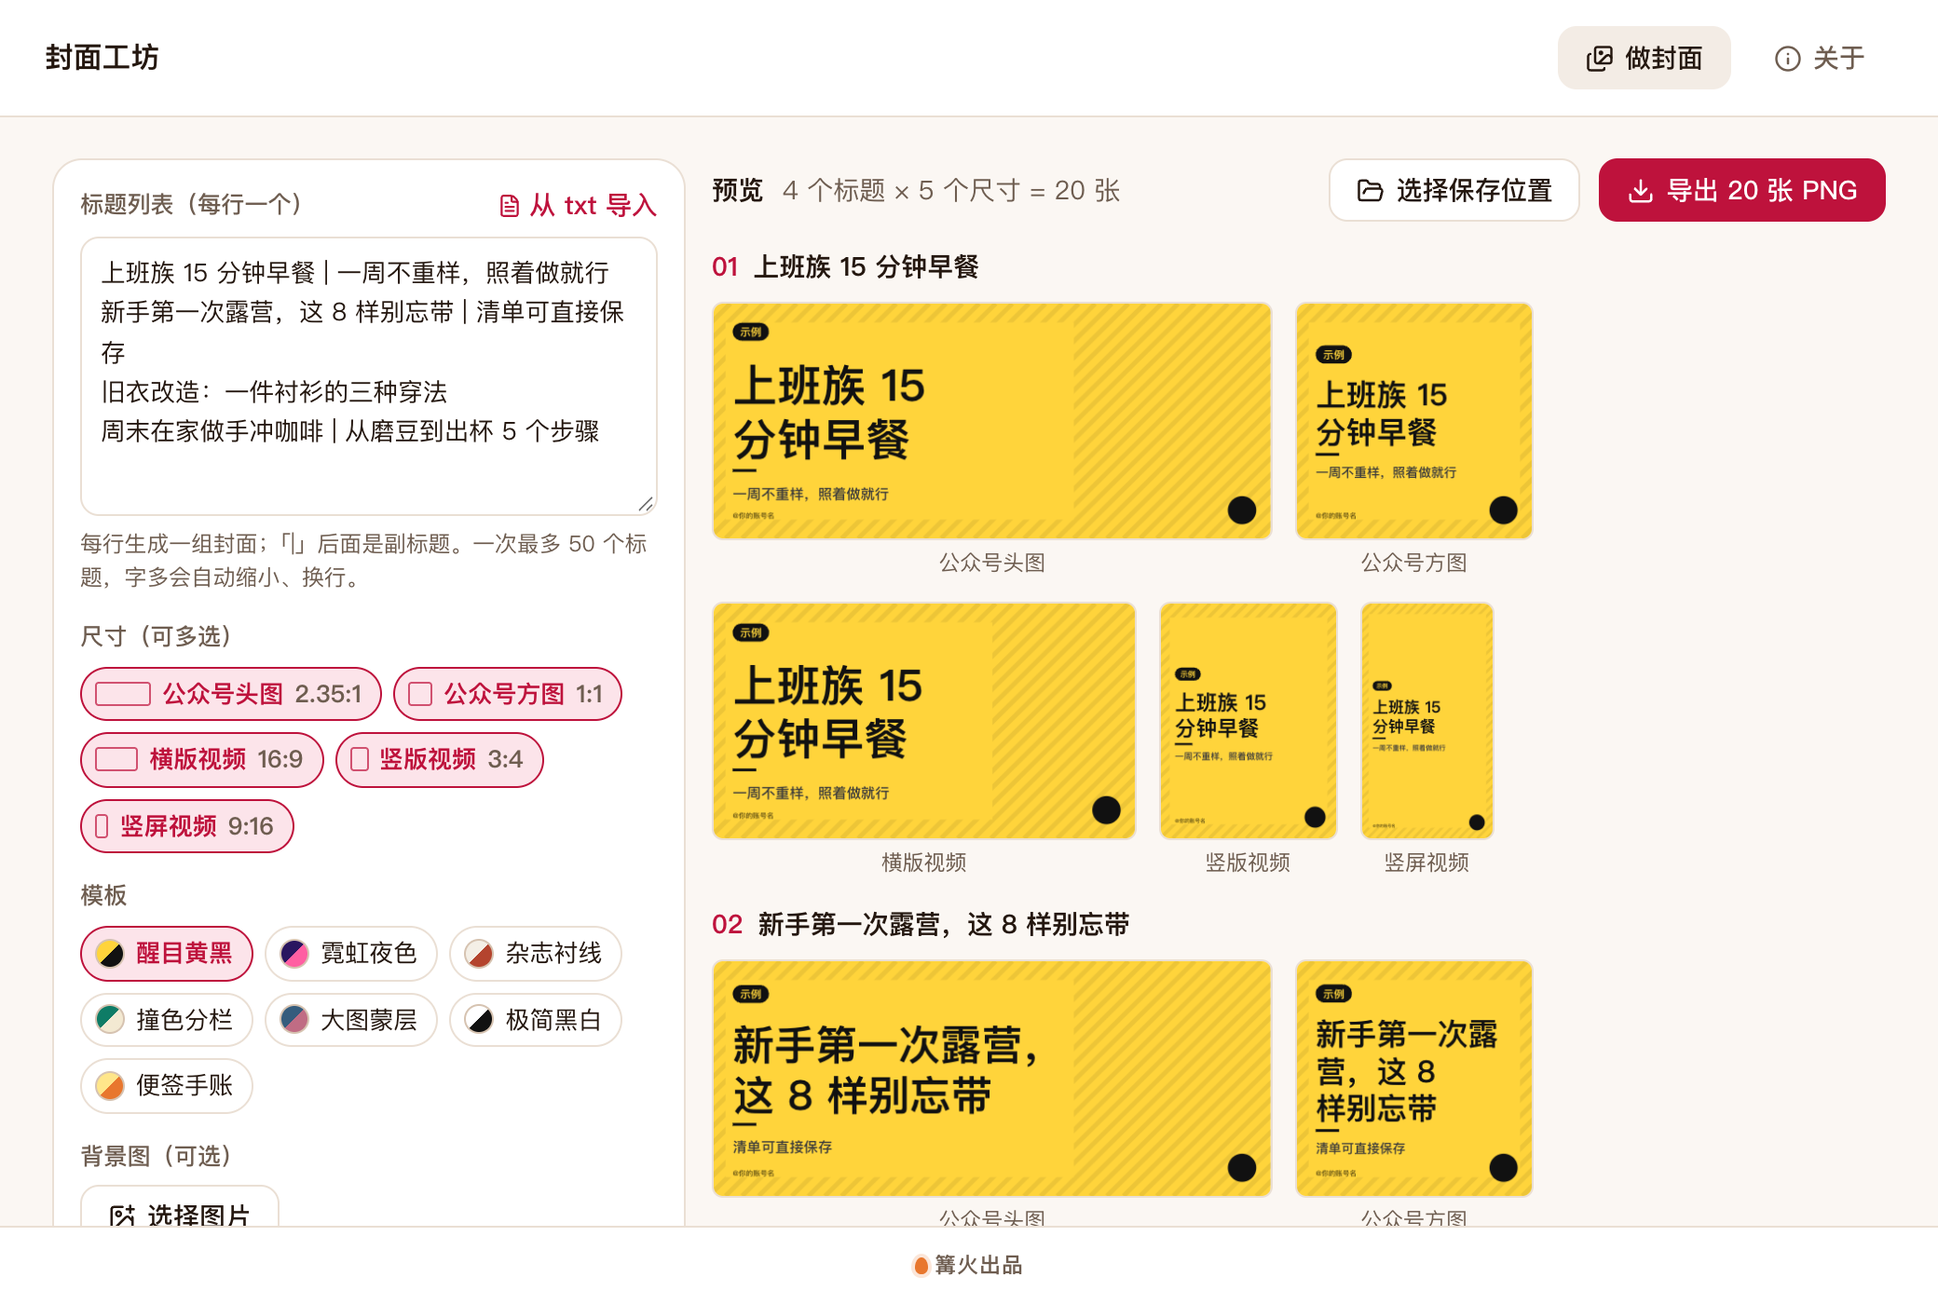
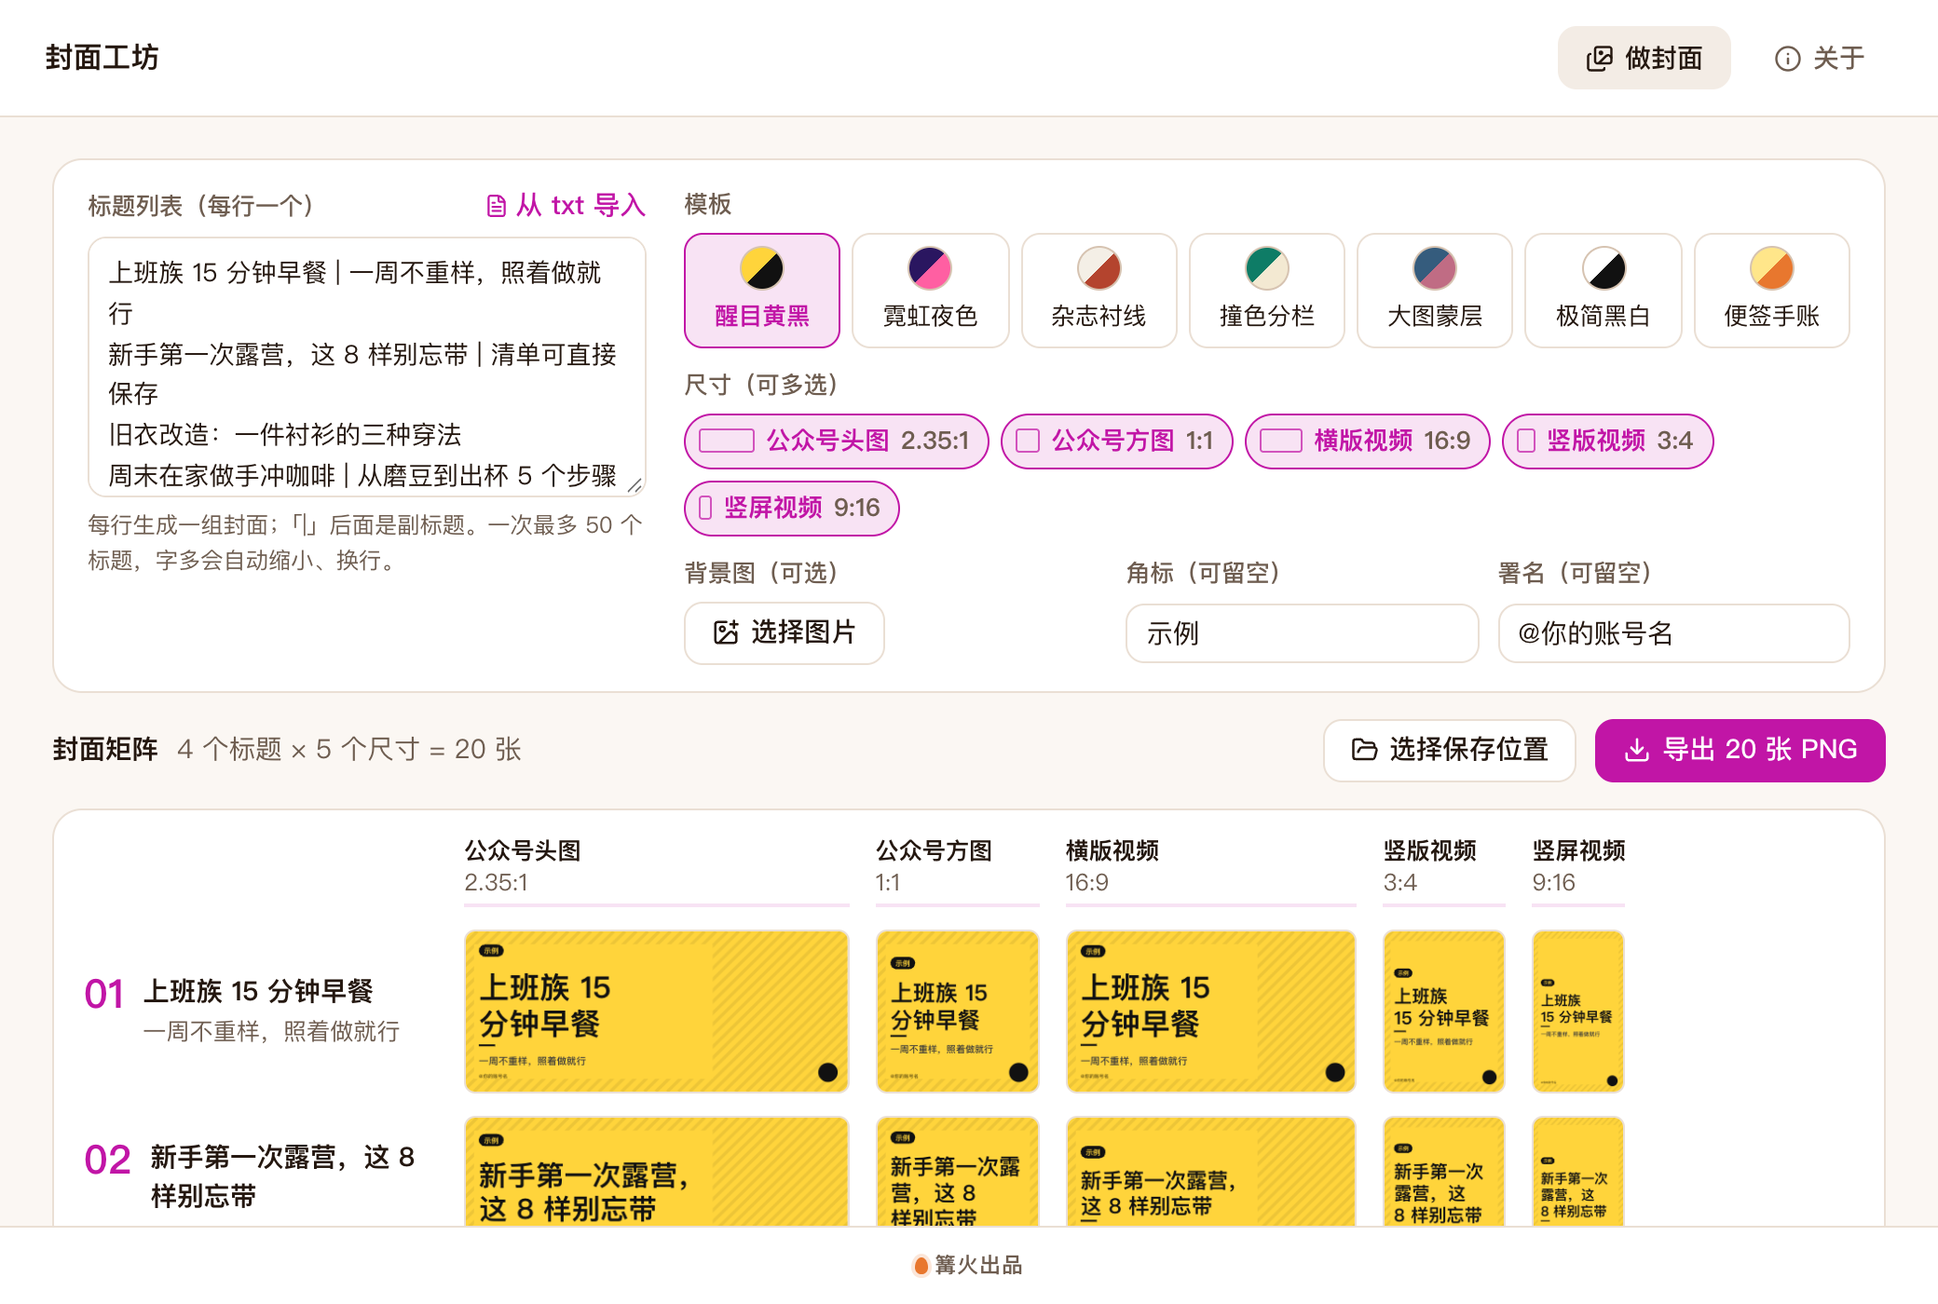
0.2.0：封面矩阵界面，补全 README

diff --git a/src/tool/Main.tsx b/src/tool/Main.tsx
@@ -14,7 +14,7 @@ type Ctx = Parameters<CustomTool['Main']>[0]['ctx'];
 const TOOL_NAME = '封面工坊';
 const DEFAULTS: Prefs = { titles: SAMPLE, sizes: SIZES.map((s) => s.id).join(','), template: TEMPLATES[0].id, tag: SAMPLE_TAG, signature: '@你的账号名', bgPath: '', outDir: '' };
 /** 预览缩略图的高度（像素） */
-const THUMB_H = 128;
+const THUMB_H = 88;
 const fileName = (p: string) => p.split(/[\\/]/).pop() ?? p;
 
 interface CoverProps { text: CoverText; size: SizeSpec; t: Template; tag: string; signature: string; img: Img | null; height: number }
@@ -143,8 +143,8 @@ export function Main({ ctx }: { ctx?: Ctx }) {
   const cur = zoom != null ? flat[zoom] : null;
   return (
     <div className={`cs${hover ? ' cs-hover' : ''}`}>
-      <section className="cs-edit k-panel">
-        <div className="k-field">
+      <section className="cs-top k-panel">
+        <div className="k-field cs-titles">
           <div className="cs-row">
             <label className="k-label" htmlFor="cs-titles">标题列表（每行一个）</label>
             <span className="b-sp" />
@@ -154,53 +154,55 @@ export function Main({ ctx }: { ctx?: Ctx }) {
           <span className="k-help">每行生成一组封面；「|」后面是副标题。一次最多 {MAX_TITLES} 个标题，字多会自动缩小、换行。</span>
           {allTexts.length > MAX_TITLES && <span className="k-help cs-warn">共 {allTexts.length} 行，只处理前 {MAX_TITLES} 个</span>}
         </div>
-        <div className="k-field">
-          <span className="k-label">尺寸（可多选）</span>
-          <div className="cs-chips" role="group" aria-label="尺寸">
-            {SIZES.map((s) => {
-              const on = sizes.some((x) => x.id === s.id);
-              return (
-                <button key={s.id} role="checkbox" aria-checked={on} className={`k-chip${on ? ' on' : ''}`} onClick={() => toggleSize(s.id)}>
-                  <i className="cs-ratio" style={{ aspectRatio: `${s.w} / ${s.h}` }} />{s.name}<span className="k-muted k-num">{s.ratio}</span>
+        <div className="cs-ctrl">
+          <div className="k-field">
+            <span className="k-label">模板</span>
+            <div className="cs-tpls" role="radiogroup" aria-label="模板">
+              {TEMPLATES.map((x) => (
+                <button key={x.id} role="radio" aria-checked={x.id === t.id} className={`cs-tpl${x.id === t.id ? ' on' : ''}`} onClick={() => set({ template: x.id })}>
+                  <i className="cs-sw" style={{ background: `linear-gradient(135deg, ${x.swatch[0]} 50%, ${x.swatch[1]} 50%)` }} />
+                  <span>{x.name}</span>
                 </button>
-              );
-            })}
-          </div>
-        </div>
-        <div className="k-field">
-          <span className="k-label">模板</span>
-          <div className="cs-chips" role="radiogroup" aria-label="模板">
-            {TEMPLATES.map((x) => (
-              <button key={x.id} role="radio" aria-checked={x.id === t.id} className={`k-chip${x.id === t.id ? ' on' : ''}`} onClick={() => set({ template: x.id })}>
-                <i className="cs-sw" style={{ background: `linear-gradient(135deg, ${x.swatch[0]} 50%, ${x.swatch[1]} 50%)` }} />{x.name}
-              </button>
-            ))}
-          </div>
-        </div>
-        <div className="k-field">
-          <span className="k-label">背景图（可选）</span>
-          <div className="cs-row">
-            <button className="k-btn" disabled={!ctx} onClick={async () => { const [p] = await pickFiles(IMAGE_EXTS, '图片').catch(() => []); if (p) set({ bgPath: p }); }}><ImagePlus size={15} />{prefs.bgPath ? '换一张' : '选择图片'}</button>
-            {prefs.bgPath && <span className="k-ellipsis k-muted" title={prefs.bgPath}>{fileName(prefs.bgPath)}</span>}
-            {prefs.bgPath && <button className="k-icon-btn" aria-label="去掉背景图" title="去掉背景图" onClick={() => set({ bgPath: '' })}><Trash2 size={14} /></button>}
-          </div>
-          <span className="k-help">铺满并居中裁剪，模板会自动加色块或蒙层保证文字看得清。也可以直接把图片拖进窗口。</span>
-        </div>
-        <div className="cs-two">
-          <div className="k-field">
-            <label className="k-label" htmlFor="cs-tag">角标（可留空）</label>
-            <input id="cs-tag" className="k-input" value={prefs.tag} maxLength={16} placeholder="例如：第 12 期" onChange={(e) => set({ tag: e.target.value })} />
+              ))}
+            </div>
           </div>
           <div className="k-field">
-            <label className="k-label" htmlFor="cs-sig">署名（可留空）</label>
-            <input id="cs-sig" className="k-input" value={prefs.signature} maxLength={30} onChange={(e) => set({ signature: e.target.value })} />
+            <span className="k-label">尺寸（可多选）</span>
+            <div className="cs-chips" role="group" aria-label="尺寸">
+              {SIZES.map((s) => {
+                const on = sizes.some((x) => x.id === s.id);
+                return (
+                  <button key={s.id} role="checkbox" aria-checked={on} className={`k-chip${on ? ' on' : ''}`} onClick={() => toggleSize(s.id)}>
+                    <i className="cs-ratio" style={{ aspectRatio: `${s.w} / ${s.h}` }} />{s.name}<span className="k-muted k-num">{s.ratio}</span>
+                  </button>
+                );
+              })}
+            </div>
+          </div>
+          <div className="cs-three">
+            <div className="k-field">
+              <span className="k-label">背景图（可选）</span>
+              <div className="cs-row">
+                <button className="k-btn" title="铺满并居中裁剪，模板会自动加色块或蒙层保证文字看得清；也可以直接把图片拖进窗口" disabled={!ctx} onClick={async () => { const [p] = await pickFiles(IMAGE_EXTS, '图片').catch(() => []); if (p) set({ bgPath: p }); }}><ImagePlus size={15} />{prefs.bgPath ? '换一张' : '选择图片'}</button>
+                {prefs.bgPath && <span className="k-ellipsis k-muted" title={prefs.bgPath}>{fileName(prefs.bgPath)}</span>}
+                {prefs.bgPath && <button className="k-icon-btn" aria-label="去掉背景图" title="去掉背景图" onClick={() => set({ bgPath: '' })}><Trash2 size={14} /></button>}
+              </div>
+            </div>
+            <div className="k-field">
+              <label className="k-label" htmlFor="cs-tag">角标（可留空）</label>
+              <input id="cs-tag" className="k-input" value={prefs.tag} maxLength={16} placeholder="例如：第 12 期" onChange={(e) => set({ tag: e.target.value })} />
+            </div>
+            <div className="k-field">
+              <label className="k-label" htmlFor="cs-sig">署名（可留空）</label>
+              <input id="cs-sig" className="k-input" value={prefs.signature} maxLength={30} onChange={(e) => set({ signature: e.target.value })} />
+            </div>
           </div>
         </div>
       </section>
 
       <section className="cs-view">
         <div className="cs-bar">
-          <b>预览</b>
+          <b>封面矩阵</b>
           <span className="k-muted k-num">{texts.length} 个标题 × {sizes.length} 个尺寸 = {total} 张</span>
           <span className="b-sp" />
           <button className="k-btn cs-dir" title={outDir || '选择保存位置'} onClick={async () => { const p = await pickFolder().catch(() => null); if (p) set({ outDir: p }); }}>
@@ -215,20 +217,25 @@ export function Main({ ctx }: { ctx?: Ctx }) {
             <button className="k-icon-btn" aria-label="关闭提示" onClick={() => setMsg(null)}><X size={14} /></button>
           </div>
         )}
-        {!total && <div className="cs-empty k-panel k-muted">{texts.length ? '至少选一个尺寸' : '在左边填上标题，这里会实时出封面'}</div>}
-        {texts.map((text, ti) => (
-          <div key={ti} className="cs-group">
-            <div className="cs-gname"><span className="k-num">{String(ti + 1).padStart(2, '0')}</span><span className="k-ellipsis">{text.title.replace(/\n/g, ' ')}</span></div>
-            <div className="cs-thumbs">
-              {sizes.map((size) => (
-                <button key={size.id} className="cs-thumb" title={`${size.name} ${size.ratio} · ${size.w}×${size.h}，点击放大`} onClick={() => setZoom(flat.findIndex((f) => f.ti === ti && f.size.id === size.id))}>
-                  <CoverCanvas text={text} size={size} t={t} tag={prefs.tag} signature={prefs.signature} img={img} height={THUMB_H} />
-                  <span className="k-muted">{size.name}</span>
-                </button>
+        {!total && <div className="cs-empty k-panel k-muted">{texts.length ? '至少选一个尺寸' : '在上面填上标题，这里会实时出封面'}</div>}
+        {total > 0 && (
+          <div className="cs-scroll k-panel">
+            <div className="cs-matrix" style={{ gridTemplateColumns: `minmax(120px, 190px) repeat(${sizes.length}, max-content)` }}>
+              <span />
+              {sizes.map((size) => <span key={size.id} className="cs-colh"><b>{size.name}</b><span className="k-muted k-num">{size.ratio}</span></span>)}
+              {texts.map((text, ti) => (
+                <div key={ti} className="cs-rowwrap">
+                  <div className="cs-rowh"><span className="cs-no k-num">{String(ti + 1).padStart(2, '0')}</span><span className="cs-rt"><b>{text.title.replace(/\n/g, ' ')}</b>{text.sub && <small className="k-muted">{text.sub}</small>}</span></div>
+                  {sizes.map((size) => (
+                    <button key={size.id} className="cs-thumb" title={`${size.name} ${size.ratio} · ${size.w}×${size.h}，点击放大`} onClick={() => setZoom(flat.findIndex((f) => f.ti === ti && f.size.id === size.id))}>
+                      <CoverCanvas text={text} size={size} t={t} tag={prefs.tag} signature={prefs.signature} img={img} height={THUMB_H} />
+                    </button>
+                  ))}
+                </div>
               ))}
             </div>
           </div>
-        ))}
+        )}
       </section>
 
       {cur && zoom != null && (

diff --git a/src/tool/tool.css b/src/tool/tool.css
@@ -1,9 +1,26 @@
 /* 封面工坊：只用 kit.css 的变量，类名以 cs- 开头 */
-.cs { flex: 1; display: grid; grid-template-columns: minmax(260px, 340px) minmax(0, 1fr); gap: 14px; align-items: start; min-height: 0; }
+.cs { flex: 1; display: flex; flex-direction: column; gap: 14px; min-height: 0; font-size: 1.02em; }
 .cs-hover .cs-view { outline: 2px dashed var(--primary); outline-offset: 4px; border-radius: var(--radius); }
-.cs-edit { position: sticky; top: 0; display: flex; flex-direction: column; gap: 14px; padding: 14px; }
+.cs-top { display: grid; grid-template-columns: minmax(240px, 300px) minmax(0, 1fr); gap: 20px; padding: 14px 18px; }
+.cs-titles { align-content: start; }
+.cs-ctrl { display: flex; flex-direction: column; gap: 10px; min-width: 0; }
+.cs-three { display: grid; grid-template-columns: 1.2fr 1fr 1fr; gap: 10px; }
+.cs-tpls { display: grid; grid-template-columns: repeat(auto-fill, minmax(78px, 1fr)); gap: 6px; }
+.cs-tpl { display: flex; flex-direction: column; align-items: center; justify-content: center; gap: 4px; min-height: 54px; padding: 6px 4px; border: 1px solid var(--line); border-radius: var(--radius); background: var(--surface); cursor: pointer; font-size: .9em; text-align: center; white-space: nowrap; transition: border-color .15s var(--ease), background .15s var(--ease); }
+.cs-tpl:hover { border-color: var(--line-strong); }
+.cs-tpl.on { border-color: var(--primary); background: var(--primary-soft); color: var(--primary); font-weight: 600; }
+.cs-tpl .cs-sw { width: 24px; height: 24px; }
+.cs-scroll { overflow-x: auto; padding: 14px 16px 16px; }
+.cs-matrix { display: grid; gap: 12px 14px; align-items: center; width: max-content; min-width: 100%; }
+.cs-rowwrap { display: contents; }
+.cs-colh { display: flex; flex-direction: column; font-size: .88em; line-height: 1.35; padding-bottom: 2px; border-bottom: 2px solid var(--primary-soft); }
+.cs-rowh { display: flex; align-items: flex-start; gap: 10px; min-width: 0; padding-right: 6px; }
+.cs-no { font-size: 1.5em; font-weight: 800; color: var(--primary); line-height: 1.1; }
+.cs-rt { display: grid; min-width: 0; gap: 2px; }
+.cs-rt b { display: -webkit-box; -webkit-line-clamp: 2; -webkit-box-orient: vertical; overflow: hidden; }
+.cs-rt small { overflow: hidden; display: -webkit-box; -webkit-line-clamp: 2; -webkit-box-orient: vertical; font-size: .88em; }
 .cs-row { display: flex; align-items: center; gap: 8px; min-width: 0; }
-.cs-text { min-height: 150px; height: 22vh; resize: vertical; font-size: .95em; line-height: 1.6; }
+.cs-text { min-height: 132px; height: 20vh; resize: vertical; font-size: .95em; line-height: 1.6; }
 .cs-warn { color: var(--err); }
 .cs-chips { display: flex; flex-wrap: wrap; gap: 6px; }
 .cs-chips .k-chip { padding: 4px 10px 4px 7px; }
@@ -18,7 +35,7 @@
 .cs-gname { display: flex; gap: 8px; align-items: baseline; font-weight: 600; min-width: 0; }
 .cs-gname .k-num { color: var(--primary); }
 .cs-thumbs { display: flex; flex-wrap: wrap; gap: 12px; align-items: flex-end; }
-.cs-thumb { display: grid; gap: 4px; justify-items: center; padding: 0; border: 0; background: none; cursor: zoom-in; font-size: .82em; }
+.cs-thumb { display: block; padding: 0; border: 0; background: none; cursor: zoom-in; }
 .cs-thumb canvas { display: block; width: auto; border-radius: 6px; border: 1px solid var(--line); background: var(--chip); transition: border-color .15s var(--ease), transform .15s var(--ease); }
 .cs-thumb:hover canvas { border-color: var(--primary); transform: translateY(-2px); }
 .cs-zoom { position: fixed; inset: 0; z-index: 50; display: grid; place-items: center; padding: 20px; background: color-mix(in srgb, var(--ink) 45%, transparent); }
@@ -26,4 +43,5 @@
 .cs-zoom-img { display: grid; place-items: center; }
 .cs-zoom-img canvas { width: auto; max-width: 100%; border-radius: var(--radius); border: 1px solid var(--line); }
 .cs-zoom-bar { display: flex; align-items: center; justify-content: center; gap: 10px; flex-wrap: wrap; }
-@media (max-width: 760px) { .cs { grid-template-columns: 1fr; } .cs-edit { position: static; } }
+@media (max-width: 760px) { .cs-top, .cs-three { grid-template-columns: 1fr; } }
+.cs > * { flex-shrink: 0; }

diff --git a/README.md b/README.md
@@ -2,7 +2,7 @@
 
 > 篝火出品 · 收录于篝火 App 应用区
 
-公众号、视频封面模板批量出图
+一行一个标题，按公众号头图和视频封面的尺寸批量出图，一眼看清每个标题在每个尺寸下的样子
 
 ![界面截图](docs/screenshot.png)
 
@@ -22,11 +22,28 @@
 
 ## 怎么用
 
-<!-- 使用步骤 -->
+1. **填标题**：在上方「标题列表」里一行写一个标题；行里的第一个「|」后面是副标题（可不写）；标题里写 `\n`（反斜杠加 n）可手动换行。也可以点「从 txt 导入」，或把 .txt 文件直接拖进窗口。一次最多处理 50 个标题，超出的会提示只处理前 50 个。
+2. **选模板**：醒目黄黑、霓虹夜色、杂志衬线、撞色分栏、大图蒙层、极简黑白、便签手账，共 7 套，点一下下面的封面矩阵立即换样。
+3. **选尺寸（可多选）**：公众号头图 2.35:1（1880×800）、公众号方图 1:1（1080×1080）、横版视频 16:9（1920×1080）、竖版视频 3:4（1080×1440）、竖屏视频 9:16（1080×1920）。至少选一个。
+4. **换背景（可选）**：点「选择图片」（支持 JPG、PNG、WebP、BMP、GIF），或把图片拖进窗口；图片铺满并居中裁剪，模板会自动加色块或蒙层保证文字看得清。
+5. **角标和署名**：角标是封面角上的一小块文字（如「第 12 期」），署名写在封面底部（如 `@你的账号名`），都可以留空。
+6. **看矩阵**：下方「封面矩阵」每一行是一个标题、每一列是一个尺寸，同一列的封面按同一高度对齐。点任意一张可放大，键盘左右键翻页，Esc 关闭。
+7. **导出**：点「导出 N 张 PNG」，在保存位置（默认「下载 / 封面工坊」，可点「选择保存位置」更改）下新建「封面-日期时间」文件夹，按「标题 × 尺寸」逐张存成 PNG，文件名形如 `01-标题-公众号头图.png`。
+8. 标题、尺寸、模板、角标、署名、背景图路径和保存位置会自动记住，下次打开接着用。全程在本机完成，不联网。
 
 ## 验收用例
 
-<!-- 用 samples/ 里的示例文件按步骤操作，应得到的结果 -->
+| 操作 | 应得到 |
+|---|---|
+| 首次打开（默认就是 `samples/示例-标题列表.txt` 的 4 个标题，角标「示例」） | 顶部显示「4 个标题 × 5 个尺寸 = 20 张」，矩阵 4 行 5 列，每个封面都能读到完整标题 |
+| 点「从 txt 导入」选 `samples/示例-标题列表.txt` | 提示「已从 示例-标题列表.txt 读入 4 个标题」 |
+| 取消勾选「公众号方图」「竖屏视频」 | 矩阵变成 4 行 3 列，顶部显示「4 个标题 × 3 个尺寸 = 12 张」 |
+| 取消所有尺寸 | 矩阵位置显示「至少选一个尺寸」，导出按钮不可点 |
+| 依次点 7 个模板 | 矩阵里全部封面立即换成对应风格，文字不超出封面 |
+| 点「选择图片」选 `samples/示例背景-暖色渐变.png` | 全部封面铺上这张背景，文字仍然清楚；点垃圾桶图标可去掉 |
+| 导入 `samples/示例-55个标题.txt` | 标题处只处理前 50 个，并提示「共 55 行，只处理前 50 个」 |
+| 点任意一张封面，再按键盘右键 | 弹出放大预览，右键切到下一张，Esc 关闭 |
+| 点「导出 N 张 PNG」 | 保存位置下出现「封面-日期时间」文件夹，PNG 张数等于「标题数 × 尺寸数」，尺寸与所选一致（如公众号头图 1880×800），提示「已导出 N 张 PNG」并可点「打开文件夹」 |
 
 ## 自己编译
 

diff --git a/CHANGELOG.md b/CHANGELOG.md
@@ -1,5 +1,10 @@
 # 更新记录
 
+## 0.2.0
+
+- 界面重做为「封面矩阵」：上方是标题、模板（带色块的方块）、尺寸、背景图、角标和署名；下方每行一个标题、每列一个尺寸，同一尺寸上下对齐，点任意一张可放大翻页。
+- 主色改为洋红；README 补全「怎么用」和「验收用例」。
+
 ## 0.1.0
 
 - 首个版本。
